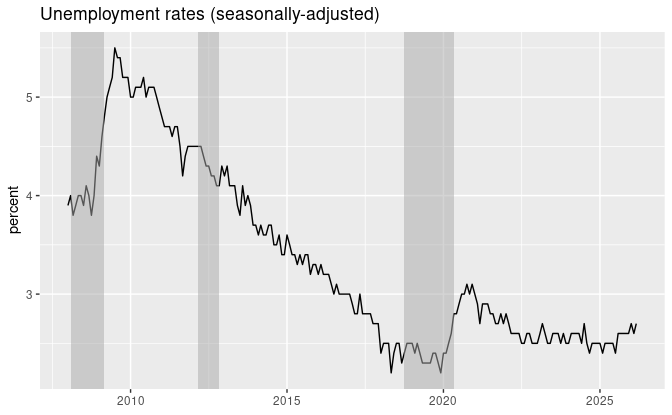
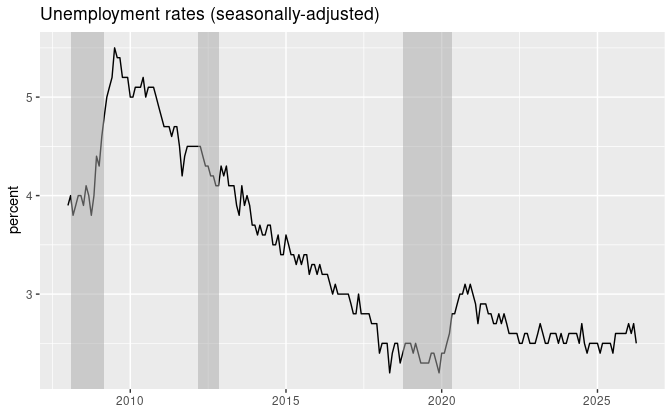
update April 2026 cases

diff --git a/README.md b/README.md
@@ -10,7 +10,7 @@ Mitsuo Shiota
 - [Suicide cases are bouncing back, but not as fast as the program
   suggests](#suicide-cases-are-bouncing-back-but-not-as-fast-as-the-program-suggests)
 
-Updated: 2026-04-29
+Updated: 2026-05-30
 
 ## Motivation
 